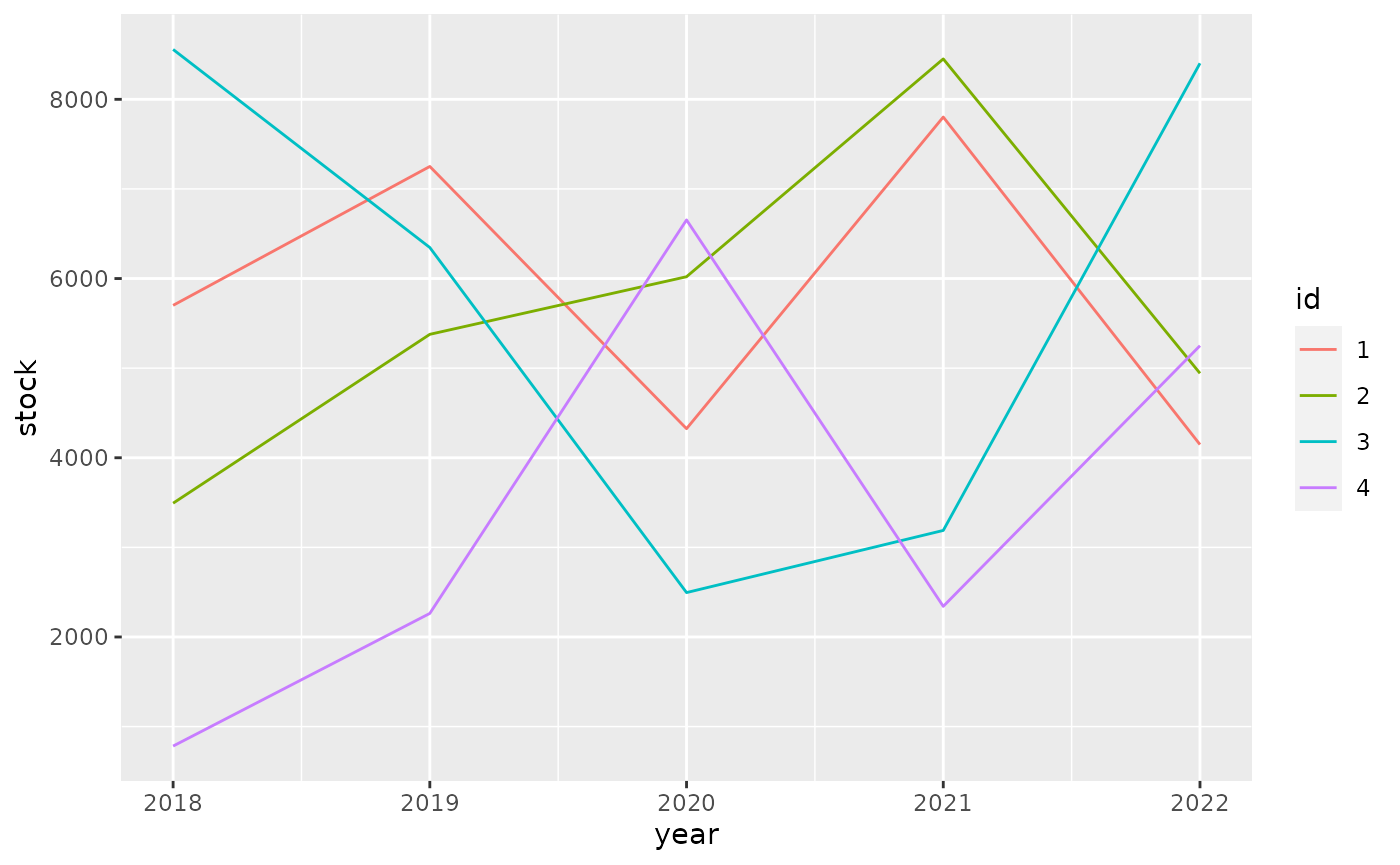
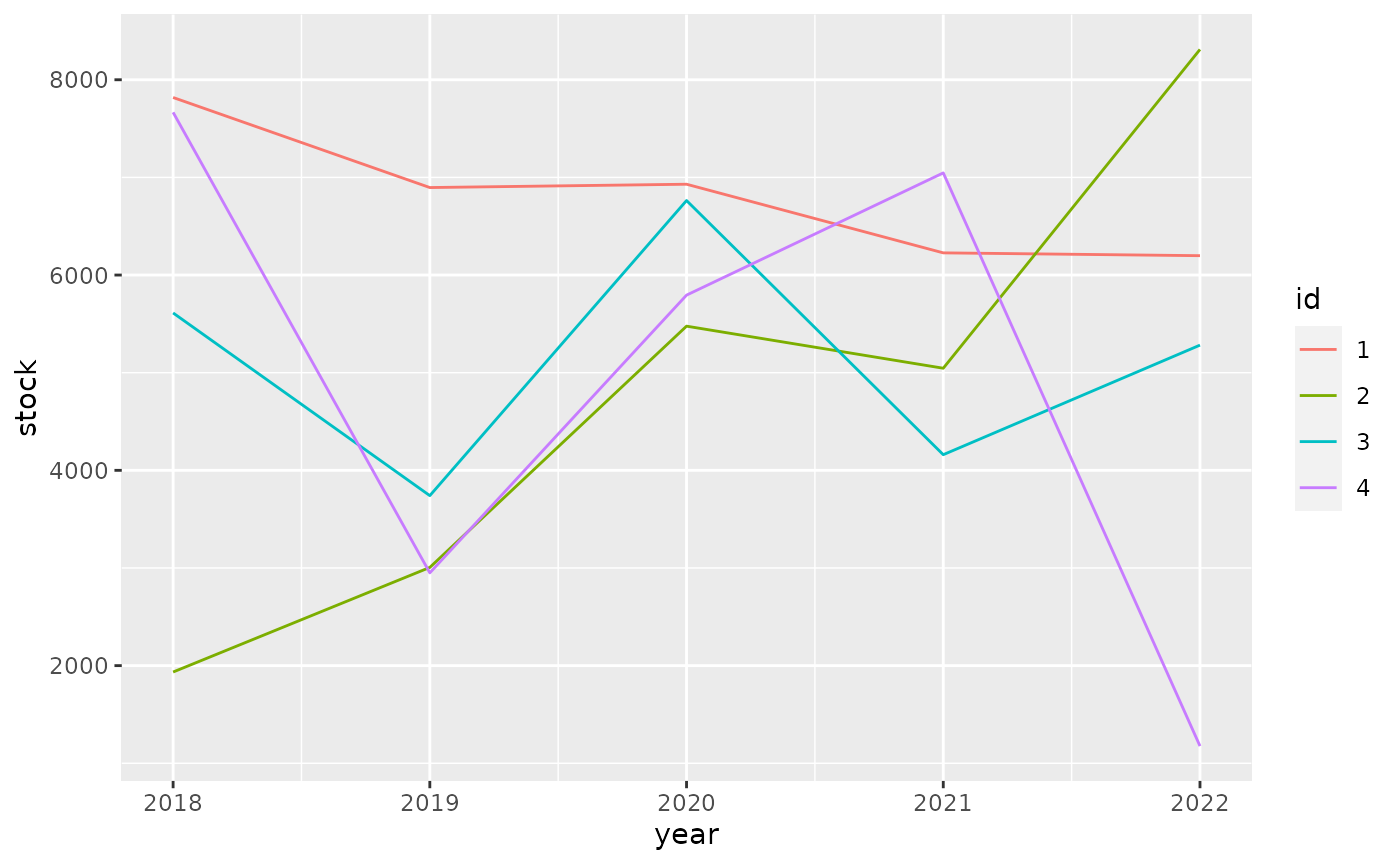
Built site for tibble: 3.1.1.9000@0a50420

diff --git a/dev/articles/formats.html b/dev/articles/formats.html
@@ -221,10 +221,10 @@
 <span class="co">#&gt; # A tibble: 4 x 6</span>
 <span class="co">#&gt;   id       `2018`    `2019`    `2020`    `2021`    `2022`</span>
 <span class="co">#&gt;   &lt;fct&gt; &lt;dbl:fmt&gt; &lt;dbl:fmt&gt; &lt;dbl:fmt&gt; &lt;dbl:fmt&gt; &lt;dbl:fmt&gt;</span>
-<span class="co">#&gt; 1 1     $5,700.73 $7,250.71 $4,324.57 $7,802.14 $4,147.30</span>
-<span class="co">#&gt; 2 2     $3,492.87 $5,377.38 $6,020.31 $8,450.87 $4,942.40</span>
-<span class="co">#&gt; 3 3     $8,556.65 $6,346.04 $2,495.37 $3,188.96 $8,402.34</span>
-<span class="co">#&gt; 4 4       $782.39 $2,262.96 $6,654.09 $2,341.62 $5,250.55</span></code></pre></div>
+<span class="co">#&gt; 1 1     $7,818.35 $6,896.02 $6,930.07 $6,227.18 $6,198.30</span>
+<span class="co">#&gt; 2 2     $1,934.59 $3,005.89 $5,476.48 $5,045.68 $8,310.42</span>
+<span class="co">#&gt; 3 3     $5,611.97 $3,740.98 $6,763.04 $4,160.30 $5,282.32</span>
+<span class="co">#&gt; 4 4     $7,666.38 $2,950.13 $5,794.36 $7,046.10 $1,176.11</span></code></pre></div>
 <p>For ggplot2 we need to do <a href="https://github.com/tidyverse/ggplot2/pull/4065" class="external-link">some work</a> to show apply the formatting to the scales.</p>
 <div class="sourceCode" id="cb6"><pre class="downlit sourceCode r">
 <code class="sourceCode R"><span class="kw"><a href="https://rdrr.io/r/base/library.html" class="external-link">library</a></span><span class="op">(</span><span class="va"><a href="https://ggplot2.tidyverse.org" class="external-link">ggplot2</a></span><span class="op">)</span>
@@ -235,10 +235,10 @@
   <span class="fu"><a href="https://ggplot2.tidyverse.org/reference/geom_path.html" class="external-link">geom_line</a></span><span class="op">(</span><span class="op">)</span></code></pre></div>
 <p><img src="formats_files/figure-html/unnamed-chunk-7-1.png" width="700"></p>
 <p>It pays off to specify formatting very early in the process. The diagram below shows the principal stages of data analysis and exploration from “R for data science”.</p>
-<div id="htmlwidget-5b166a10b4d05e28d789" style="width:700px;height:432.632880098888px;" class="DiagrammeR html-widget"></div>
-<script type="application/json" data-for="htmlwidget-5b166a10b4d05e28d789">{"x":{"diagram":"graph TD\n  Import --> Tidy\n  Tidy --> Transform\n  Transform --> Visualize\n  Visualize --> Communicate\n  Visualize --> Model\n  Model -.-> Transform"},"evals":[],"jsHooks":[]}</script><p>The subsequent diagram adds data formats, communication options, and explicit data formatting. The original r4ds transitions are highlighted in bold. There are two principal options where to apply formatting for results: right before communicating them, or right after importing.</p>
-<div id="htmlwidget-c08c3da76cc6249cc9bc" style="width:700px;height:432.632880098888px;" class="DiagrammeR html-widget"></div>
-<script type="application/json" data-for="htmlwidget-c08c3da76cc6249cc9bc">{"x":{"diagram":"graph TD\n  .csv --> Import\n  API --> Import\n  DBI --> Import\n  dbplyr --> Import\n  Import -.-> Format[Format for analysis]\n  Format -.-> Tidy\n\n  subgraph r4ds\n  Import ==> Tidy\n  Tidy ==> Transform\n  Transform ==> Visualize\n  Visualize ==> Model\n  Model -.-> Transform\n  Visualize ==> Communicate\n  end\n\n  Visualize -.-> FormatComm[Format for communication]\n  FormatComm -.-> Communicate\n\n  FormatComm -- Apply formatting early --> Format\n\n  dbplyr -.-> Tidy\n  dbplyr -.-> Transform\n  dbplyr -.-> Visualize\n\n  Communicate --> gt\n  Communicate --> ggplot2\n  Communicate --> DT\n  Communicate --> plotly"},"evals":[],"jsHooks":[]}</script><p>Applying formatting early in the process gives the added benefit of showing the data in a useful format during the “Tidy”, “Transform”, and “Visualize” stages. For this to be useful, we need to ensure that the formatting options applied early:</p>
+<div id="htmlwidget-70ff3c85336e8f7a959e" style="width:700px;height:432.632880098888px;" class="DiagrammeR html-widget"></div>
+<script type="application/json" data-for="htmlwidget-70ff3c85336e8f7a959e">{"x":{"diagram":"graph TD\n  Import --> Tidy\n  Tidy --> Transform\n  Transform --> Visualize\n  Visualize --> Communicate\n  Visualize --> Model\n  Model -.-> Transform"},"evals":[],"jsHooks":[]}</script><p>The subsequent diagram adds data formats, communication options, and explicit data formatting. The original r4ds transitions are highlighted in bold. There are two principal options where to apply formatting for results: right before communicating them, or right after importing.</p>
+<div id="htmlwidget-2364d32528b67fd35a0f" style="width:700px;height:432.632880098888px;" class="DiagrammeR html-widget"></div>
+<script type="application/json" data-for="htmlwidget-2364d32528b67fd35a0f">{"x":{"diagram":"graph TD\n  .csv --> Import\n  API --> Import\n  DBI --> Import\n  dbplyr --> Import\n  Import -.-> Format[Format for analysis]\n  Format -.-> Tidy\n\n  subgraph r4ds\n  Import ==> Tidy\n  Tidy ==> Transform\n  Transform ==> Visualize\n  Visualize ==> Model\n  Model -.-> Transform\n  Visualize ==> Communicate\n  end\n\n  Visualize -.-> FormatComm[Format for communication]\n  FormatComm -.-> Communicate\n\n  FormatComm -- Apply formatting early --> Format\n\n  dbplyr -.-> Tidy\n  dbplyr -.-> Transform\n  dbplyr -.-> Visualize\n\n  Communicate --> gt\n  Communicate --> ggplot2\n  Communicate --> DT\n  Communicate --> plotly"},"evals":[],"jsHooks":[]}</script><p>Applying formatting early in the process gives the added benefit of showing the data in a useful format during the “Tidy”, “Transform”, and “Visualize” stages. For this to be useful, we need to ensure that the formatting options applied early:</p>
 <ul>
 <li>give a good user experience for analysis
 <ul>

diff --git a/dev/articles/types.html b/dev/articles/types.html
@@ -351,8 +351,8 @@
 #&gt; $ `named list`  &lt;named list&gt; 1
 #&gt; $ factor        &lt;fct&gt; A
 #&gt; $ ordered       &lt;ord&gt; a
-#&gt; $ Date          &lt;date&gt; 2021-04-18
-#&gt; $ POSIXt        &lt;dttm&gt; 2021-04-18 07:51:31
+#&gt; $ Date          &lt;date&gt; 2021-04-20
+#&gt; $ POSIXt        &lt;dttm&gt; 2021-04-20 05:02:37
 #&gt; $ difftime      &lt;drtn&gt; 1 secs
 #&gt; $ hms           &lt;time&gt; 00:00:01
 #&gt; $ integer64     &lt;int64&gt; 10000000000
@@ -388,7 +388,7 @@
 <span class="co">#&gt;             "sym"</span>
 <span class="co">#&gt;         }, typeof(x))</span>
 <span class="co">#&gt; }</span>
-<span class="co">#&gt; &lt;bytecode: 0x556b27e56cc8&gt;</span>
+<span class="co">#&gt; &lt;bytecode: 0x556927339af0&gt;</span>
 <span class="co">#&gt; &lt;environment: namespace:pillar&gt;</span></code></pre></div>
 </div>
   </div>
